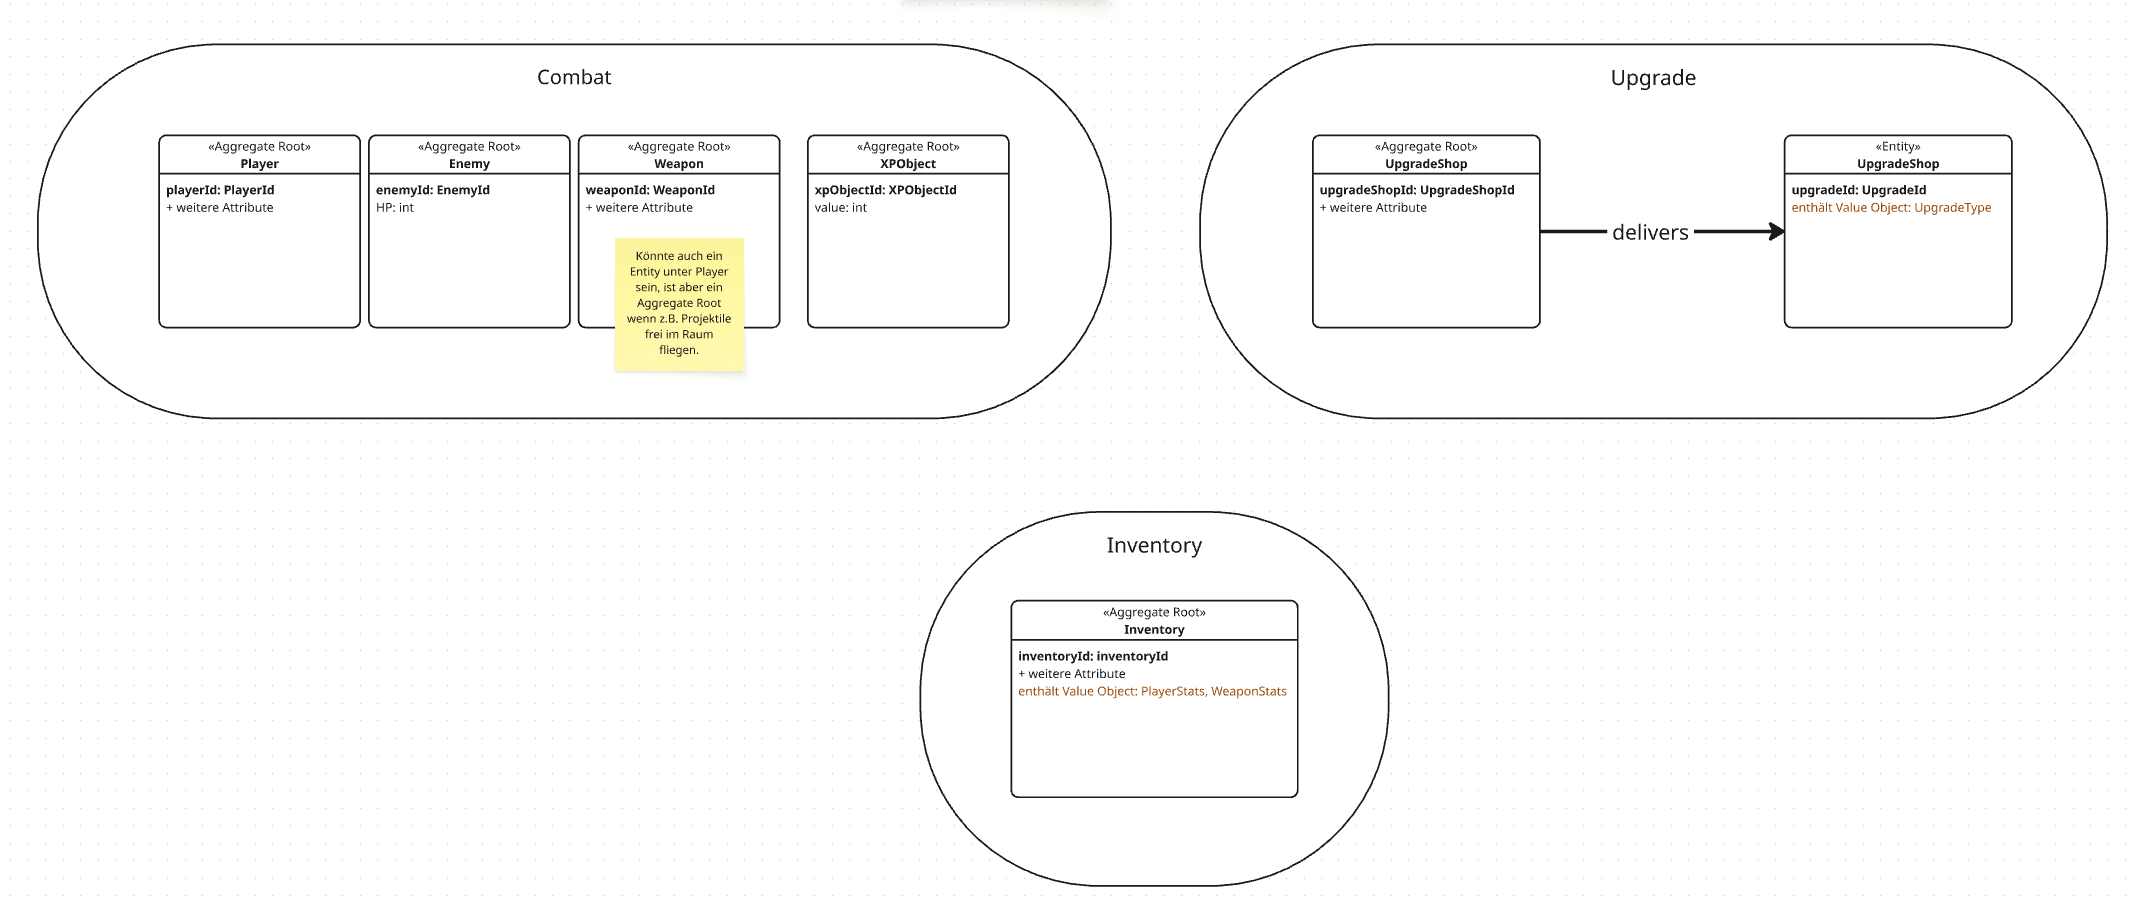
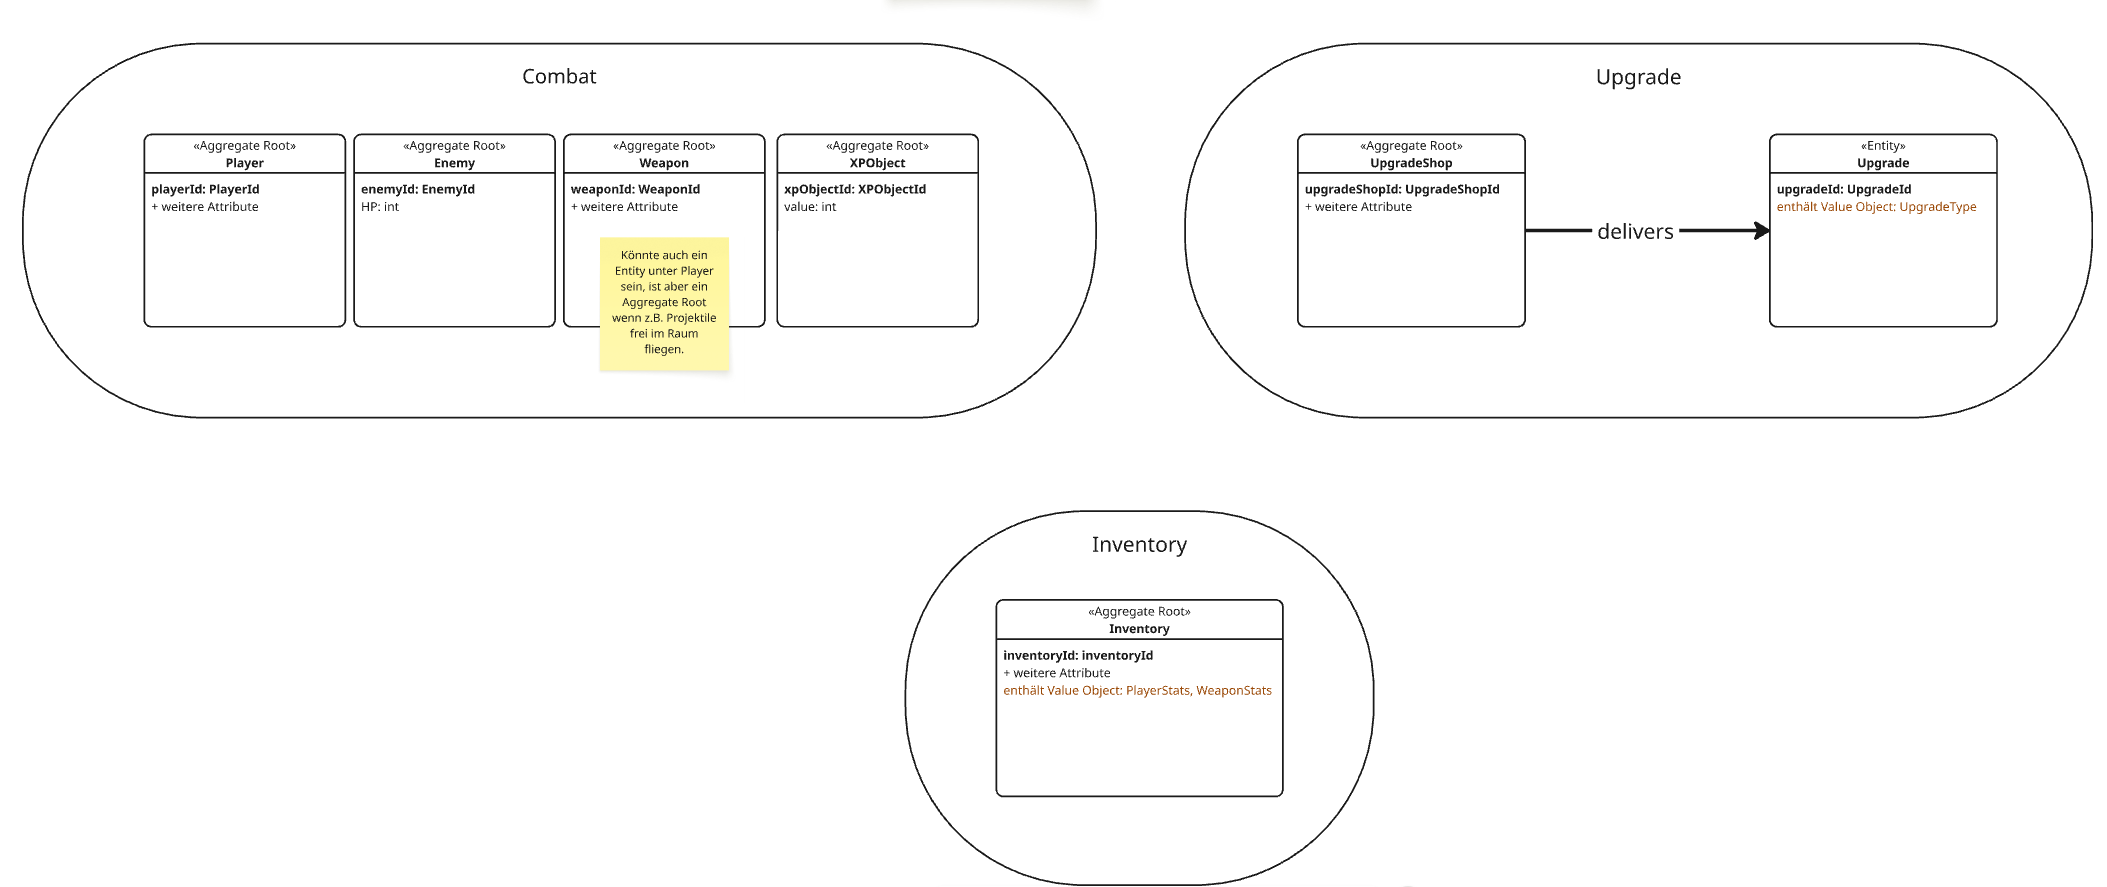
Overhaul during group meeting session: Update images, discuss results and add additional explainations

diff --git a/README.md b/README.md
@@ -1,5 +1,7 @@
 # MSE_Roguelike
-A roguelike game development Project with the focus on software development strategies
+Im Rahmen dieses Projekts wird ein 2D-Top-Down-Roguelike mit einem speziellen Fokus auf Techniken der modernen Softwareentwicklung umgesetzt.
+Dabei handelt es sich um ein Computerspiel, bei dem Wellen an Gegnern die Spielfigur angreifen, während diese versucht den Gegnern auszuweichen und dabei automatisch Angriffe durchführt.
+Mit jeder Welle kann der Spieler Upgrades für seine Waffen und Stats erwerben und so die immer schwierigeren Wellen meistern. Das Ziel ist es möglichst viele Wellen zu überleben. Jeder Spieldurchlauf ist dabei anders, z.B. durch zufällig platzierte Gegner und zufällige Upgrades im Shop.
 
 ## Dokumentation
 ### CI/CD
@@ -14,8 +16,18 @@ Die Erstellung von Builds bzw. die Kompilierung ist zu diesem Zeitpunkt kein Tei
 
 ### UML und OOD
 
+#### Eventstorming
+
+Im ersten Schritt haben wir eine Eventstorming-Session durchgeführt und die wichtigsten Events für die Funktionalität des Spiels identifiziert. Das Ergebnis ist der folgenden Abbildung zu entnehmen.
+
+![Eventstorming Diagramm](./images/eventstorming.png)
+
 #### Domänenmodell
-...
+
+Auf Basis der Ergebnisse des Eventstormings wurde das Domänenmodell erstellt. Dieses ist in der folgenden Abbildung dargestellt.
+
+![Domänenmodell Diagramm](./images/domain_model.png)
+
 
 #### Bounded Contexts
 
@@ -39,7 +51,7 @@ Die Aggregates sind entkoppelt und synchronisieren ihren Zustand über die Domai
 | Service | Art | Aufgabe | Methoden |
 | :--- | :--- | :--- | :--- |
 | CollisionService | Domain Service | Fachregel zur Berechnung von Schaden über mehrere Aggregates (`Player`, `Enemy`, `Weapon`) unter Berücksichtigung von `power` und `armor` bei Kollisionen. | `processWeaponCollision(weaponId, enemyId)`<br>`processEnemyCollision(enemyId, playerId)` |
-| CombatService | Anwendungsservice | Steuert den Spielablauf: Aktualisiert Stats bei, verarbeitet eingesammelte XP-Objekte, prüft Levelaufstieg und löst kampfbezogene Events aus(z.B. Gegner zestört, Spieler Level erhöht, Run beendet). | `updateStats(event)`<br>`collectXP(playerId, xpObjectId)` |
+| CombatService | Anwendungsservice | Steuert den Spielablauf: Aktualisiert Stats, verarbeitet eingesammelte XP-Objekte, prüft Levelaufstieg und löst kampfbezogene Events aus(z.B. Gegner zestört, Spieler Level erhöht, Run beendet). | `updateStats(event)`<br>`collectXP(playerId, xpObjectId)` |
 | UpgradeShopService | Anwendungsservice | Reagiert auf das "Spieler Level erhöht"-Event, erstellt `Upgrade`-Optionen für den `UpgradeShop`, verarbeitet die Wahl des Upgrades und löst das "Spieler hat Upgrade ausgewählt"-Event aus. | `openShop(event)`<br>`chooseUpgrade(shopId, upgradeId)` |
 | InventoryService | Anwendungsservice | Reagiert auf das "Spieler hat Upgrade ausgewählt"-Event, fügt das Upgrade zum `Inventory` hinzu, berechnet die Gesamt-Stats und löst das `Stats aktualisiert`-Event aus. | `addUpgrade(event)` |
 
